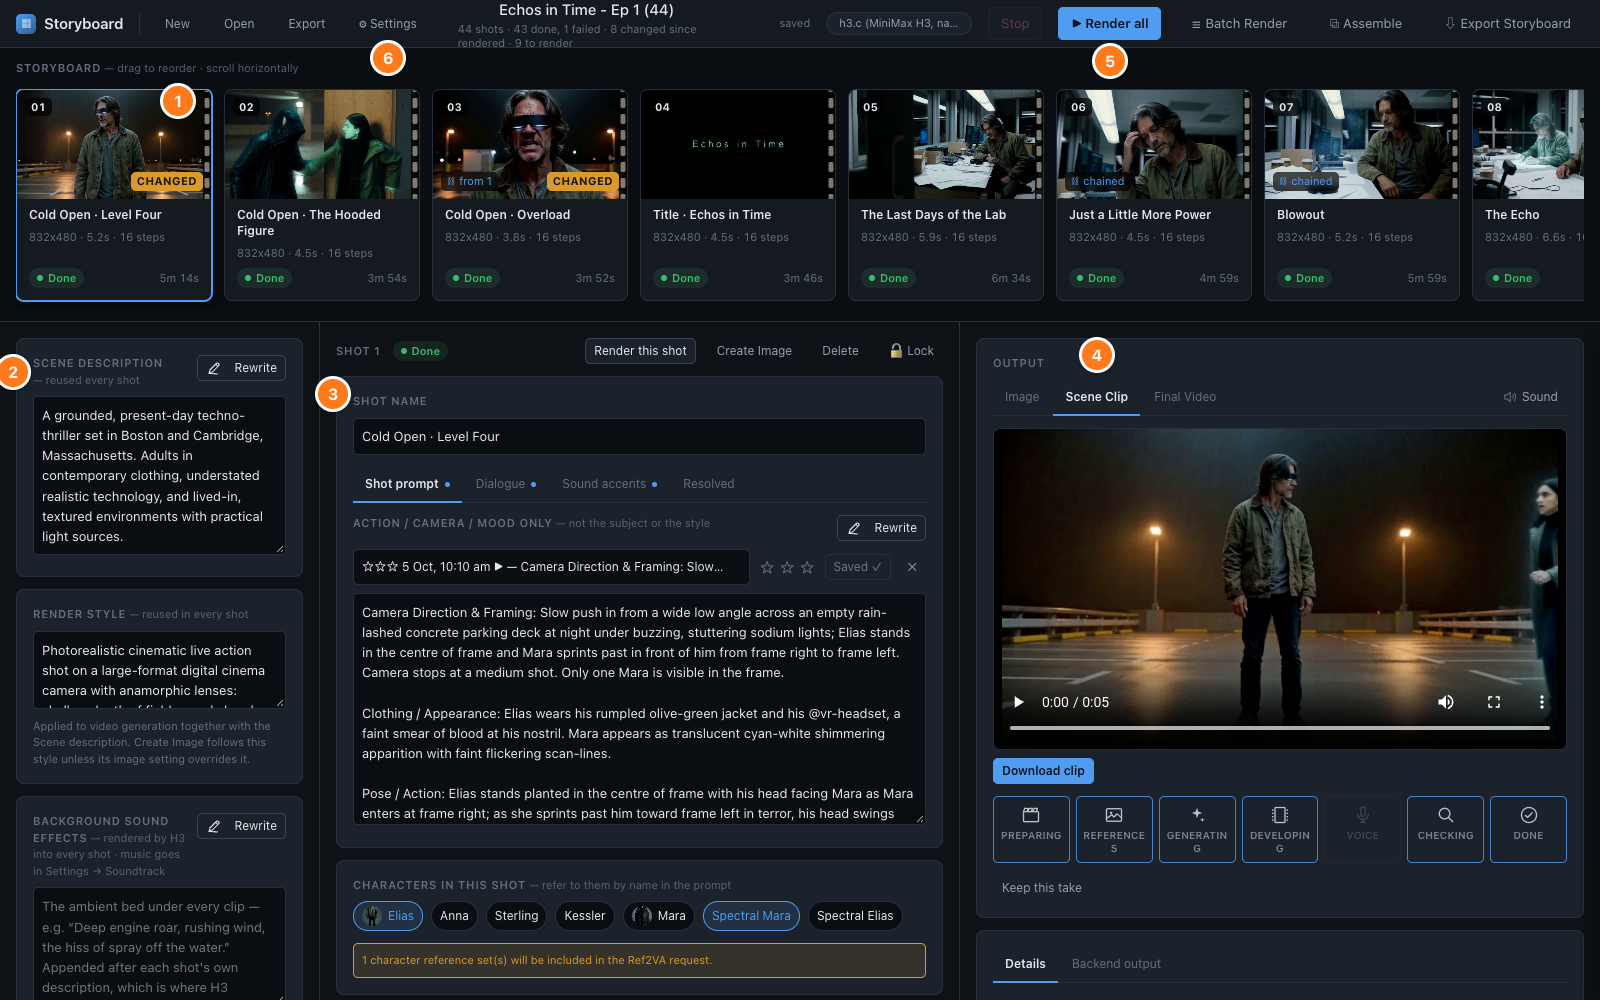
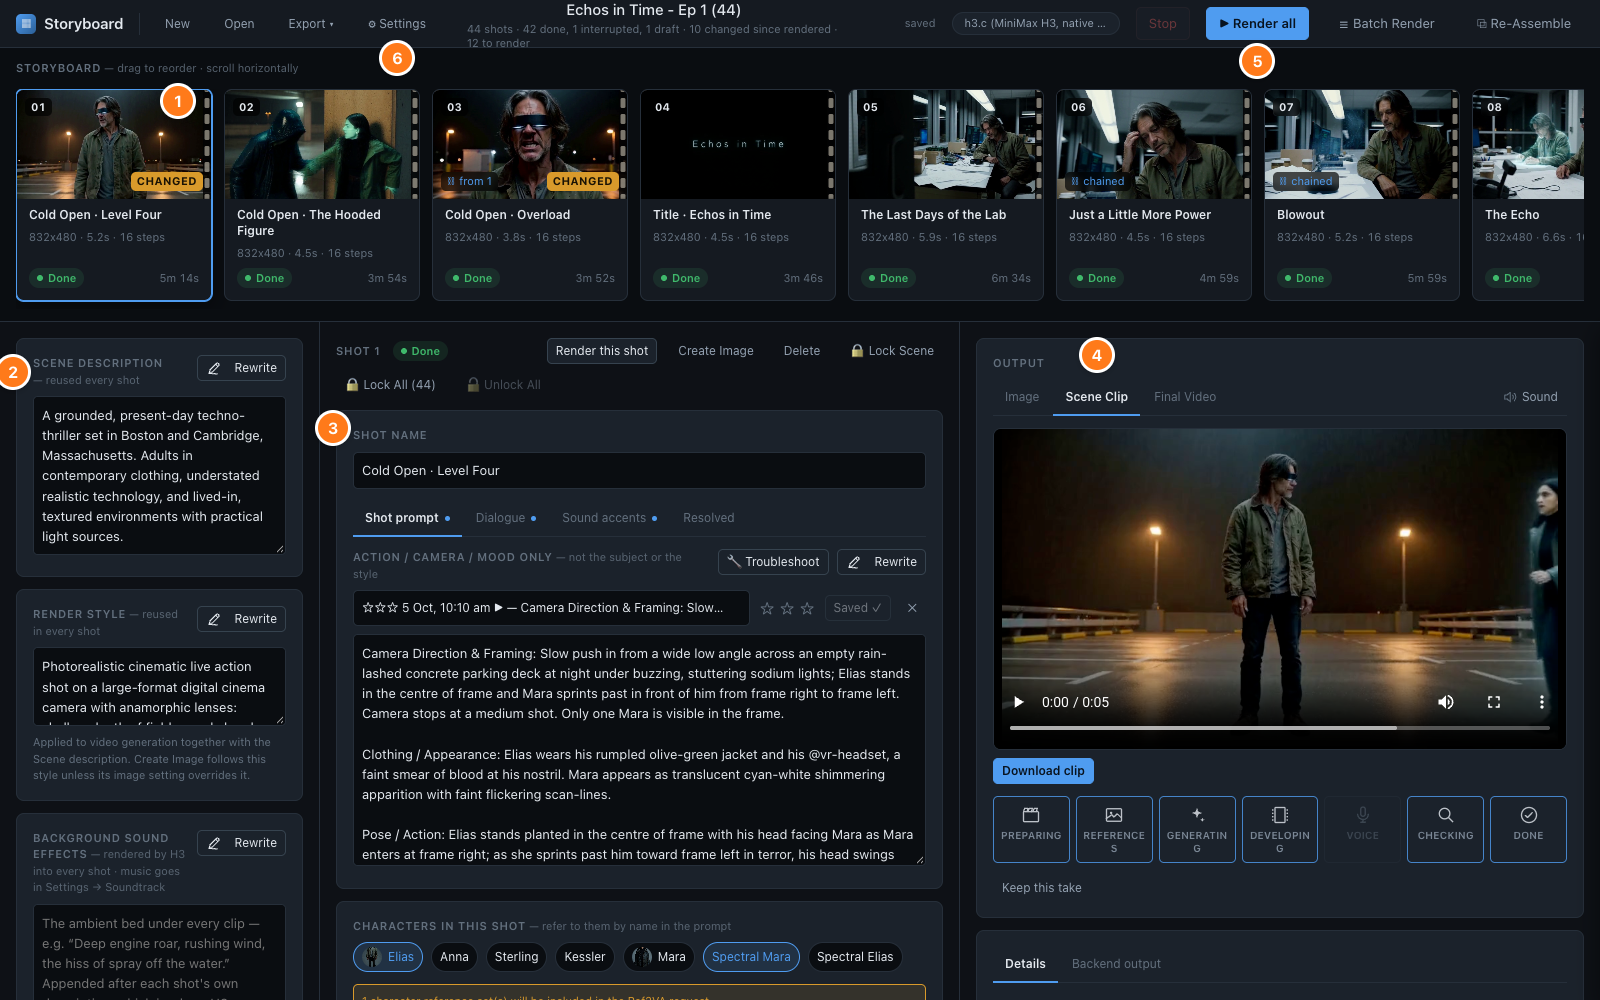
Docs: README feature sections and a user guide with screenshots

diff --git a/docs/USER-GUIDE.md b/docs/USER-GUIDE.md
@@ -79,7 +79,7 @@ Click **Render this shot**. The card in the strip shows progress. The first rend
 
 Repeat steps 3 and 4 for each new shot, then click **▶ Render all**. When every shot is done, open the **Final Video** tab and click **Download**.
 
-![The Final Video tab with Re-assemble and Download](images/user-guide/output-final-video.png)
+![The Final Video tab with Re-Assemble and Download](images/user-guide/output-final-video.png)
 
 That's the whole loop. The rest of this guide is about making each step better.
 
@@ -108,13 +108,11 @@ On the far right edge is the **Storyboard AD** tab, an assistant you can chat wi
 | --- | --- | --- |
 | 1 | **New** | Starts a new project. |
 | 2 | **Open** | Lists every project on your Mac, with how many shots are rendered. |
-| 3 | **⚙ Settings** | Project and system options. |
-| 4 | **▶ Render all** | Renders every shot that is new or has changed. |
-| 5 | **Batch Render** | Renders several projects one after another, for example overnight. |
-| 6 | **Assemble** | Joins the finished clips into one video. |
-| 7 | **Export Storyboard** | Downloads the project folder as a ZIP (words, pictures and voices, without the rendered video). |
-
-The plain **Export** button next to **Settings** downloads just the storyboard file.
+| 3 | **Export ▾** | Downloads the project as a ZIP. Choose **Export All** (everything, including the rendered clips and the final video) or **Export Setup (no video)** (your words, pictures, voices, prompts and logs, without the video). |
+| 4 | **⚙ Settings** | Project and system options. |
+| 5 | **▶ Render all** | Renders every shot that is new or has changed. |
+| 6 | **Batch Render** | Renders several projects one after another, for example overnight. |
+| 7 | **Re-Assemble** | Joins the finished clips into one video. |
 
 ### The shot strip
 
@@ -373,12 +371,16 @@ You can also write it in plain words: "draft scene 3, review the clip, then adju
 
 **What happens next:**
 
-1. **Checklist.** The AD turns your request into a short list of things a single frame can show (up to eight). You'll see this on a **Start** card. You can edit the list and the number of attempts before you click **Start**. Starting uses your Mac's graphics power, so it never starts by itself.
+1. **Checklist.** The AD turns your request into a short list of things a single frame can show (up to eight), and marks the **critical** ones, the things the shot is wrong without. You'll see this on a **Start** card. You can edit the list and the number of attempts before you click **Start refine**. Start a line with `!` to make it critical. Starting uses your Mac's graphics power, so it never starts by itself.
 2. **Draft.** It renders a quick, rough version of the shot. Your real clip is not touched.
 3. **Review.** It looks at pictures from the draft and marks each check as met or not met.
-4. **Adjust.** For anything that failed, it rewrites the prompt and tries again.
+4. **Adjust.** For anything that failed, it rewrites the prompt and tries again. It is told which checks already passed and to leave the sentences behind them exactly as written, so a fix shouldn't disturb what was working.
 
-It stops when every check passes, when it runs out of attempts (3 by default, at most 8), when it has nothing left to change, or when you click **Stop**.
+It stops when every **critical** check is met, when it runs out of attempts (3 by default, at most 8), or when you click **Stop**. A clip that scores 92% but misses a critical check does not count as a pass, so it keeps going. If the AD has no new idea for the prompt, it is asked again more firmly, and if that fails it tries the same prompt on a new seed.
+
+![The Start card, with the checklist and critical checks marked with !](images/user-guide/refine-start.png)
+
+> **Which checks should be critical?** The things you would reject the shot for, such as the continuity problem you started `/refine` to fix. Keep it to one to three. If everything is critical, nothing is.
 
 #### Reading the results
 
@@ -389,10 +391,12 @@ Each checklist item has a mark beside it:
 | **✓** green tick | The draft met this check. |
 | **✗** red cross | The draft did not meet it. The reason the AD gave is shown next to it. |
 | **·** grey dot | Not reviewed yet. |
+| **critical** tag | A check the run will not stop without. Each attempt also shows how many critical checks it met, such as **1/2 critical**, in red while any are missed. |
+| **new seed** tag | The prompt could not be improved, so that attempt used the same words on a different seed. |
 
 ![A finished /refine run, with ticks and crosses](images/user-guide/refine-result.png)
 
-*An example result.* The top **Checklist** shows how the *latest* attempt did. Every attempt has its own score and its own list, so you can see what each try fixed. Open **Play draft** to watch an attempt, and **Prompt** to read the words it used.
+*An example result.* The top **Checklist** shows how the *latest* attempt did. Every attempt has its own score and its own list, so you can see what each try fixed. Open **Play draft** to watch an attempt, and **Prompt** to read the words it used. **Changes from #N** shows exactly what an attempt changed: words removed are struck through in red and words added are in green. If most of the earlier prompt was rewritten, it says so, which is your cue to check that nothing that was working got lost.
 
 #### Keeping the result
 
@@ -420,6 +424,8 @@ Pictures keep your film looking consistent. They live in the shot editor, below 
 **Tag a reference image** with a name such as `@vr-headset`, then use that tag in your prompt to point at it directly.
 
 ![Style references](images/user-guide/style-references.png)
+
+When you click **+** to choose a style reference, start frame or character picture, the picker shows your project's images twelve at a time, as large thumbnails with their pixel size. Tick the boxes to select several images, or hold **Shift** and click to select a whole range (⌘ or Ctrl-click toggles one); then add them together or delete them in one go. Use **Prev** and **Next** to move through the pages, and **Show … from other projects** to browse pictures from your other projects (picking one copies it in). The files `/refine` and **Compare seeds** make while they work are kept out of the picker.
 
 There's a limit to how many pictures and voice clips one shot can use, and Storyboard checks this before rendering. Characters, style pictures and references all count toward it, so keep only what the shot needs.
 
@@ -462,6 +468,8 @@ Remove frames from the start or end of a shot (24 frames is one second) to cut a
 
 Click **Lock** at the top of the editor when a shot is right. A locked shot can't be edited, re-rendered or changed by Render all, the AD or project-wide settings. Click **Unlock** to change it.
 
+The **All ▾** button beside **Lock** locks or unlocks every scene at once. Choose **Lock all scenes** once a cut is final, or **Unlock all scenes** to open everything up again. Unlocking asks you to confirm first, because **Render all** will then re-render any scene that has changed since it was rendered. A scene that is rendering at that moment is left unlocked.
+
 ---
 
 ## 13. Rendering, reviewing and finishing
@@ -499,14 +507,14 @@ If a render looks suspect, Storyboard says so rather than hiding it. A shot is o
 ### Make the final video
 
 1. Render every shot you want.
-2. Open **Final Video** and click **Re-assemble** (or the **Assemble** button in the top bar).
+2. Open **Final Video** and click **Re-Assemble** (or the **Re-Assemble** button in the top bar).
 3. Click **Download** to save it, or **Open** to view it.
 
 Shots that haven't been rendered are left out, and the video is marked **Incomplete** with the missing shots named. The **Continuity, dialogue & cut** panel has fades, crossfades and audio level settings.
 
 ### Back up or share a project
 
-**Export Storyboard** downloads a ZIP of your words, pictures and voices. It doesn't include the rendered video, so the file stays small. Your projects live in the `storyboard-projects` folder, one folder per project, and you can also copy that folder to back it up.
+**Export ▾** in the top bar downloads the project as a ZIP, with two choices. **Export Setup (no video)** has your words, pictures, voices, prompts and logs, so the file stays small and you can re-render anywhere. **Export All** adds the rendered clips, the final video and the soundtrack, so it can be very large. Your projects live in the `storyboard-projects` folder, one folder per project, and you can also copy that folder to back it up.
 
 ---
 

diff --git a/README.md b/README.md
@@ -126,9 +126,10 @@ You describe the problem in your own words, in the AD chat:
 Then Storyboard:
 
 1. **Turns your words into a checklist** of up to eight yes/no things a single
-   frame can show. You can edit the list and the number of attempts before it
-   starts. The same list judges every attempt, so attempt 3 is comparable with
-   attempt 1.
+   frame can show, and marks the **critical** ones: what you stressed, and what
+   the shot is wrong without. You can edit the list and the number of attempts
+   before it starts, and start any line with `!` to make it critical. The same
+   list judges every attempt, so attempt 3 is comparable with attempt 1.
 2. **Renders a quick draft** of the shot. Your real clip is never overwritten.
 3. **Reviews stills from the draft** (about one a second) alongside the
    character portraits, and marks each check **✓ met** or **✗ not met**, with
@@ -137,8 +138,12 @@ Then Storyboard:
 4. **Rewrites the prompt for the checks that failed**, remembering what earlier
    attempts already tried, and goes round again, up to your attempt limit.
 
-It stops when every check passes, the attempts run out, it has nothing left to
-change, or you press **Stop**. Your board is not edited. At the end you get the
+**Critical checks decide when it stops.** A clip that scores 92% but misses a
+critical check is *not* a pass: the loop keeps going until every critical check
+is met, however well the rest do. If the model has nothing new to change it is
+asked again more firmly, and if the words still can't move, the same prompt is
+tried on a new seed. It also stops when the attempts run out or you press
+**Stop**. Your board is not edited. At the end you get the
 best-scoring prompt as a card to apply or discard, plus every attempt's draft
 clip and prompt to compare. After applying, render the shot for real.
 
